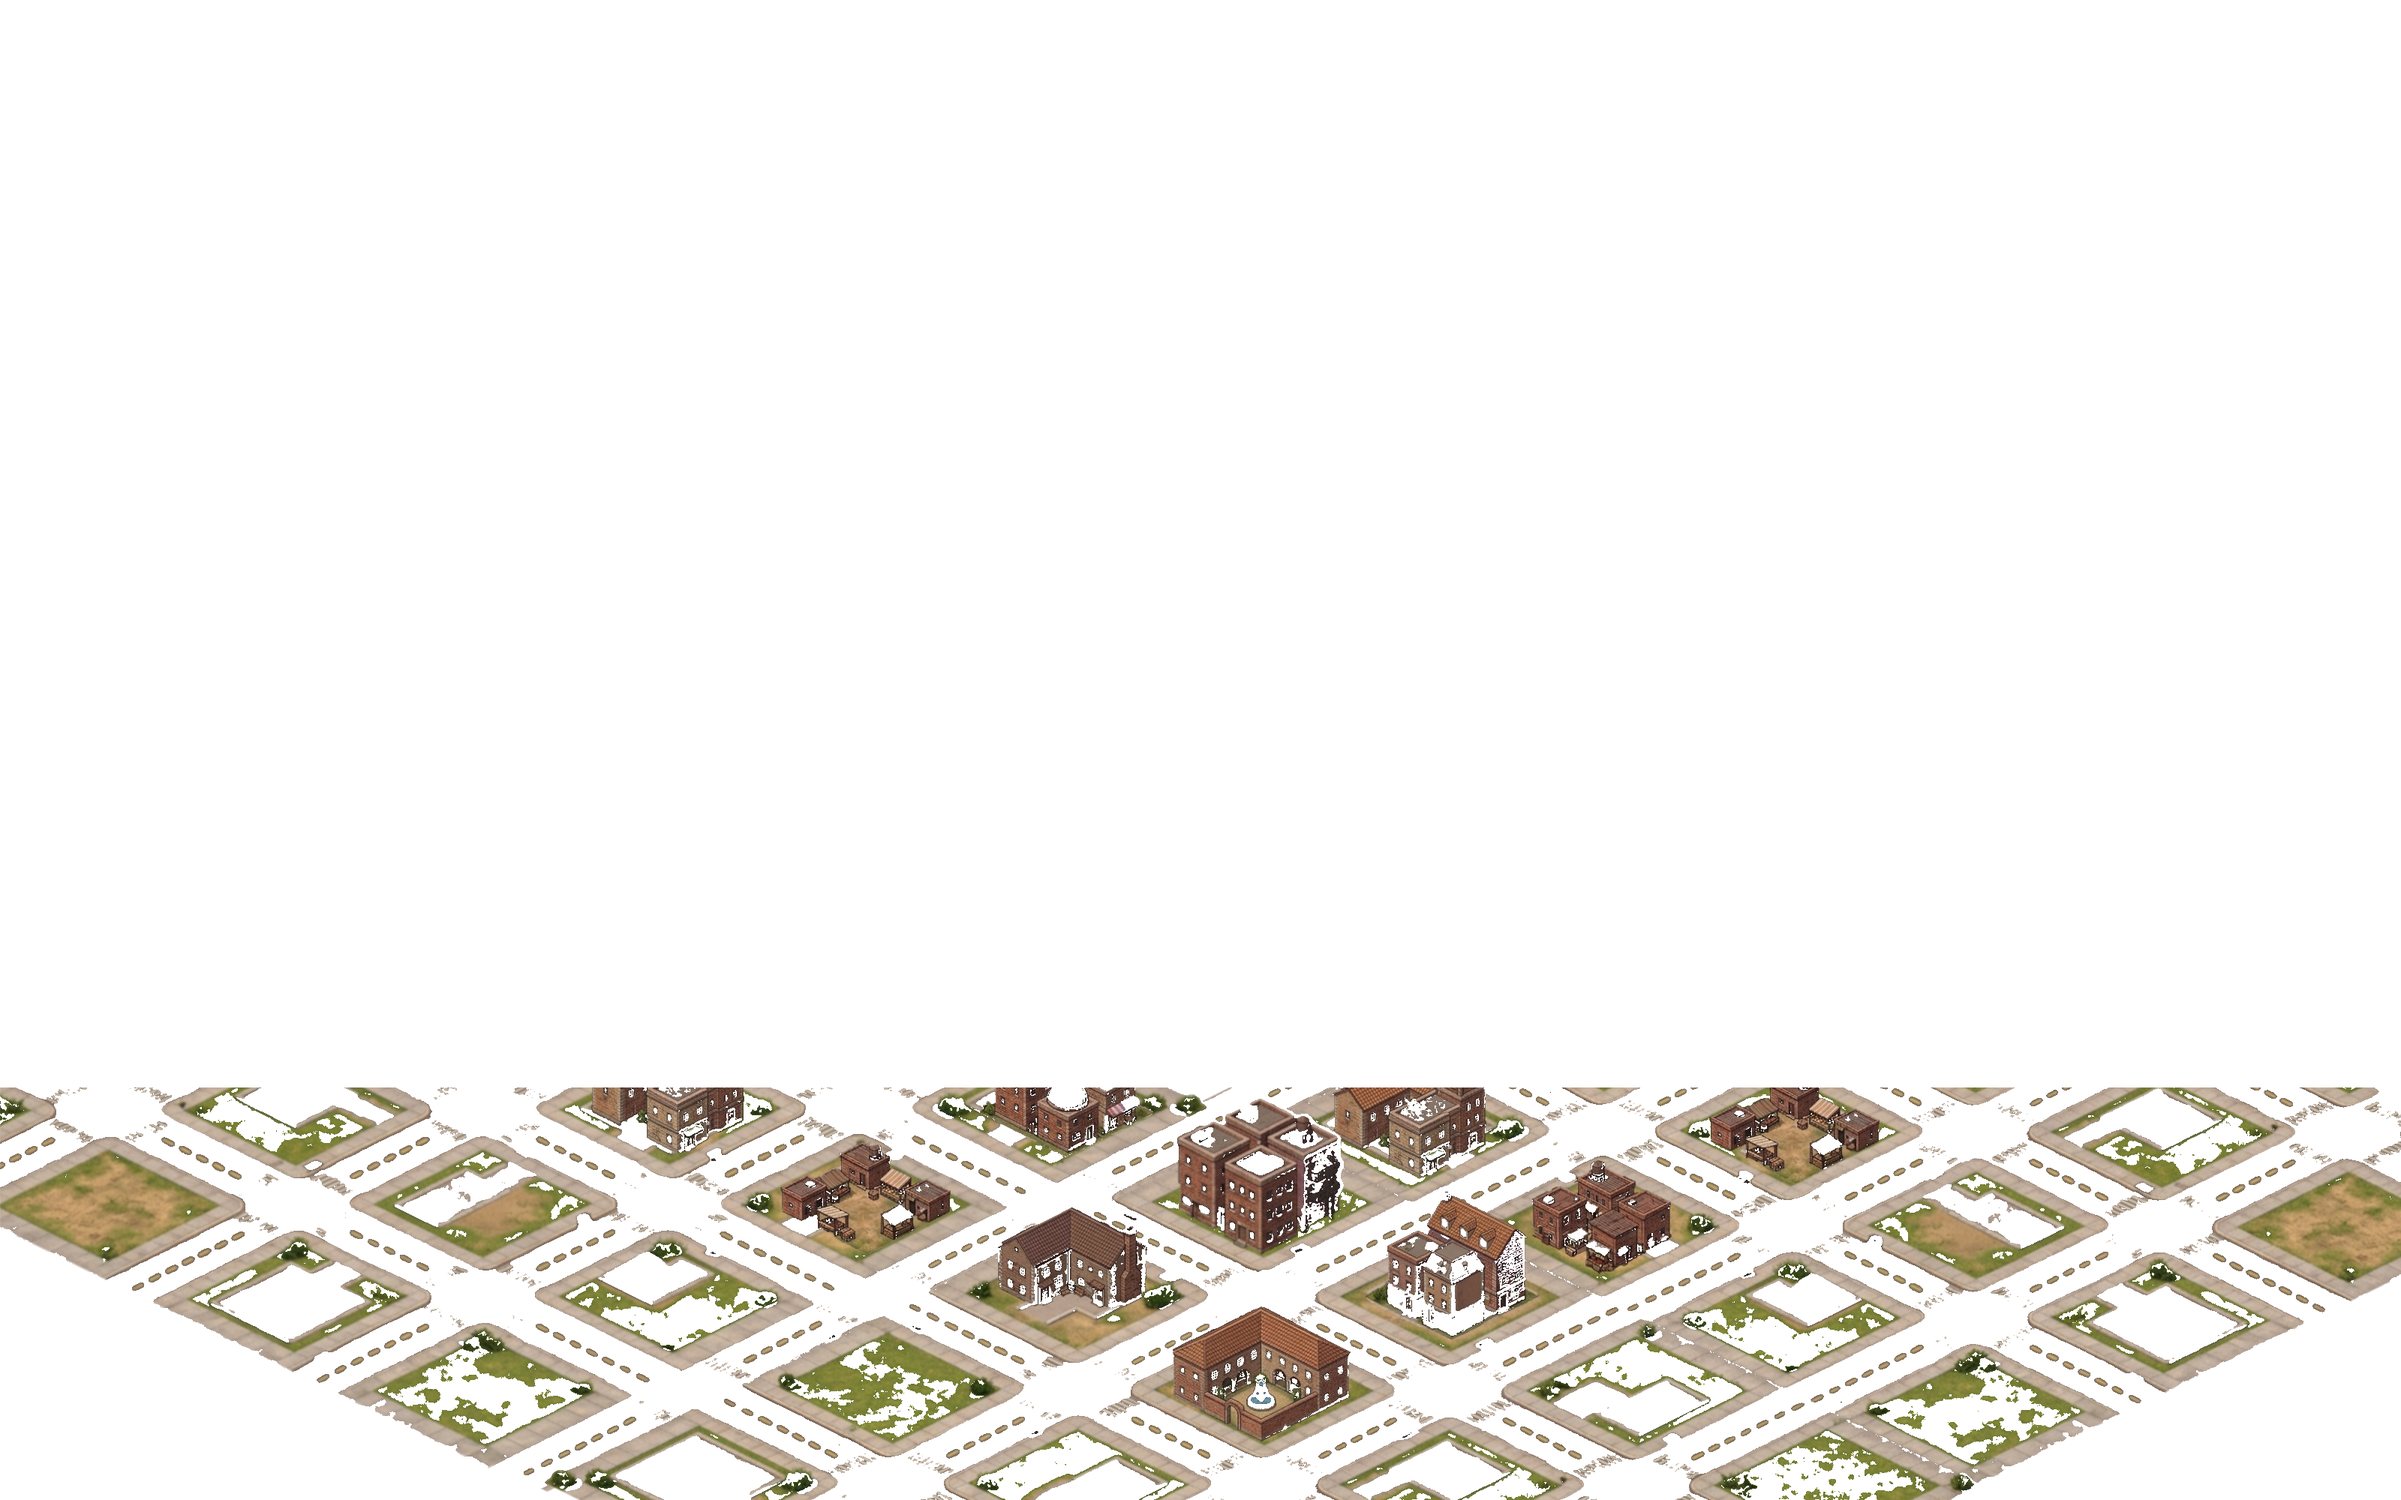
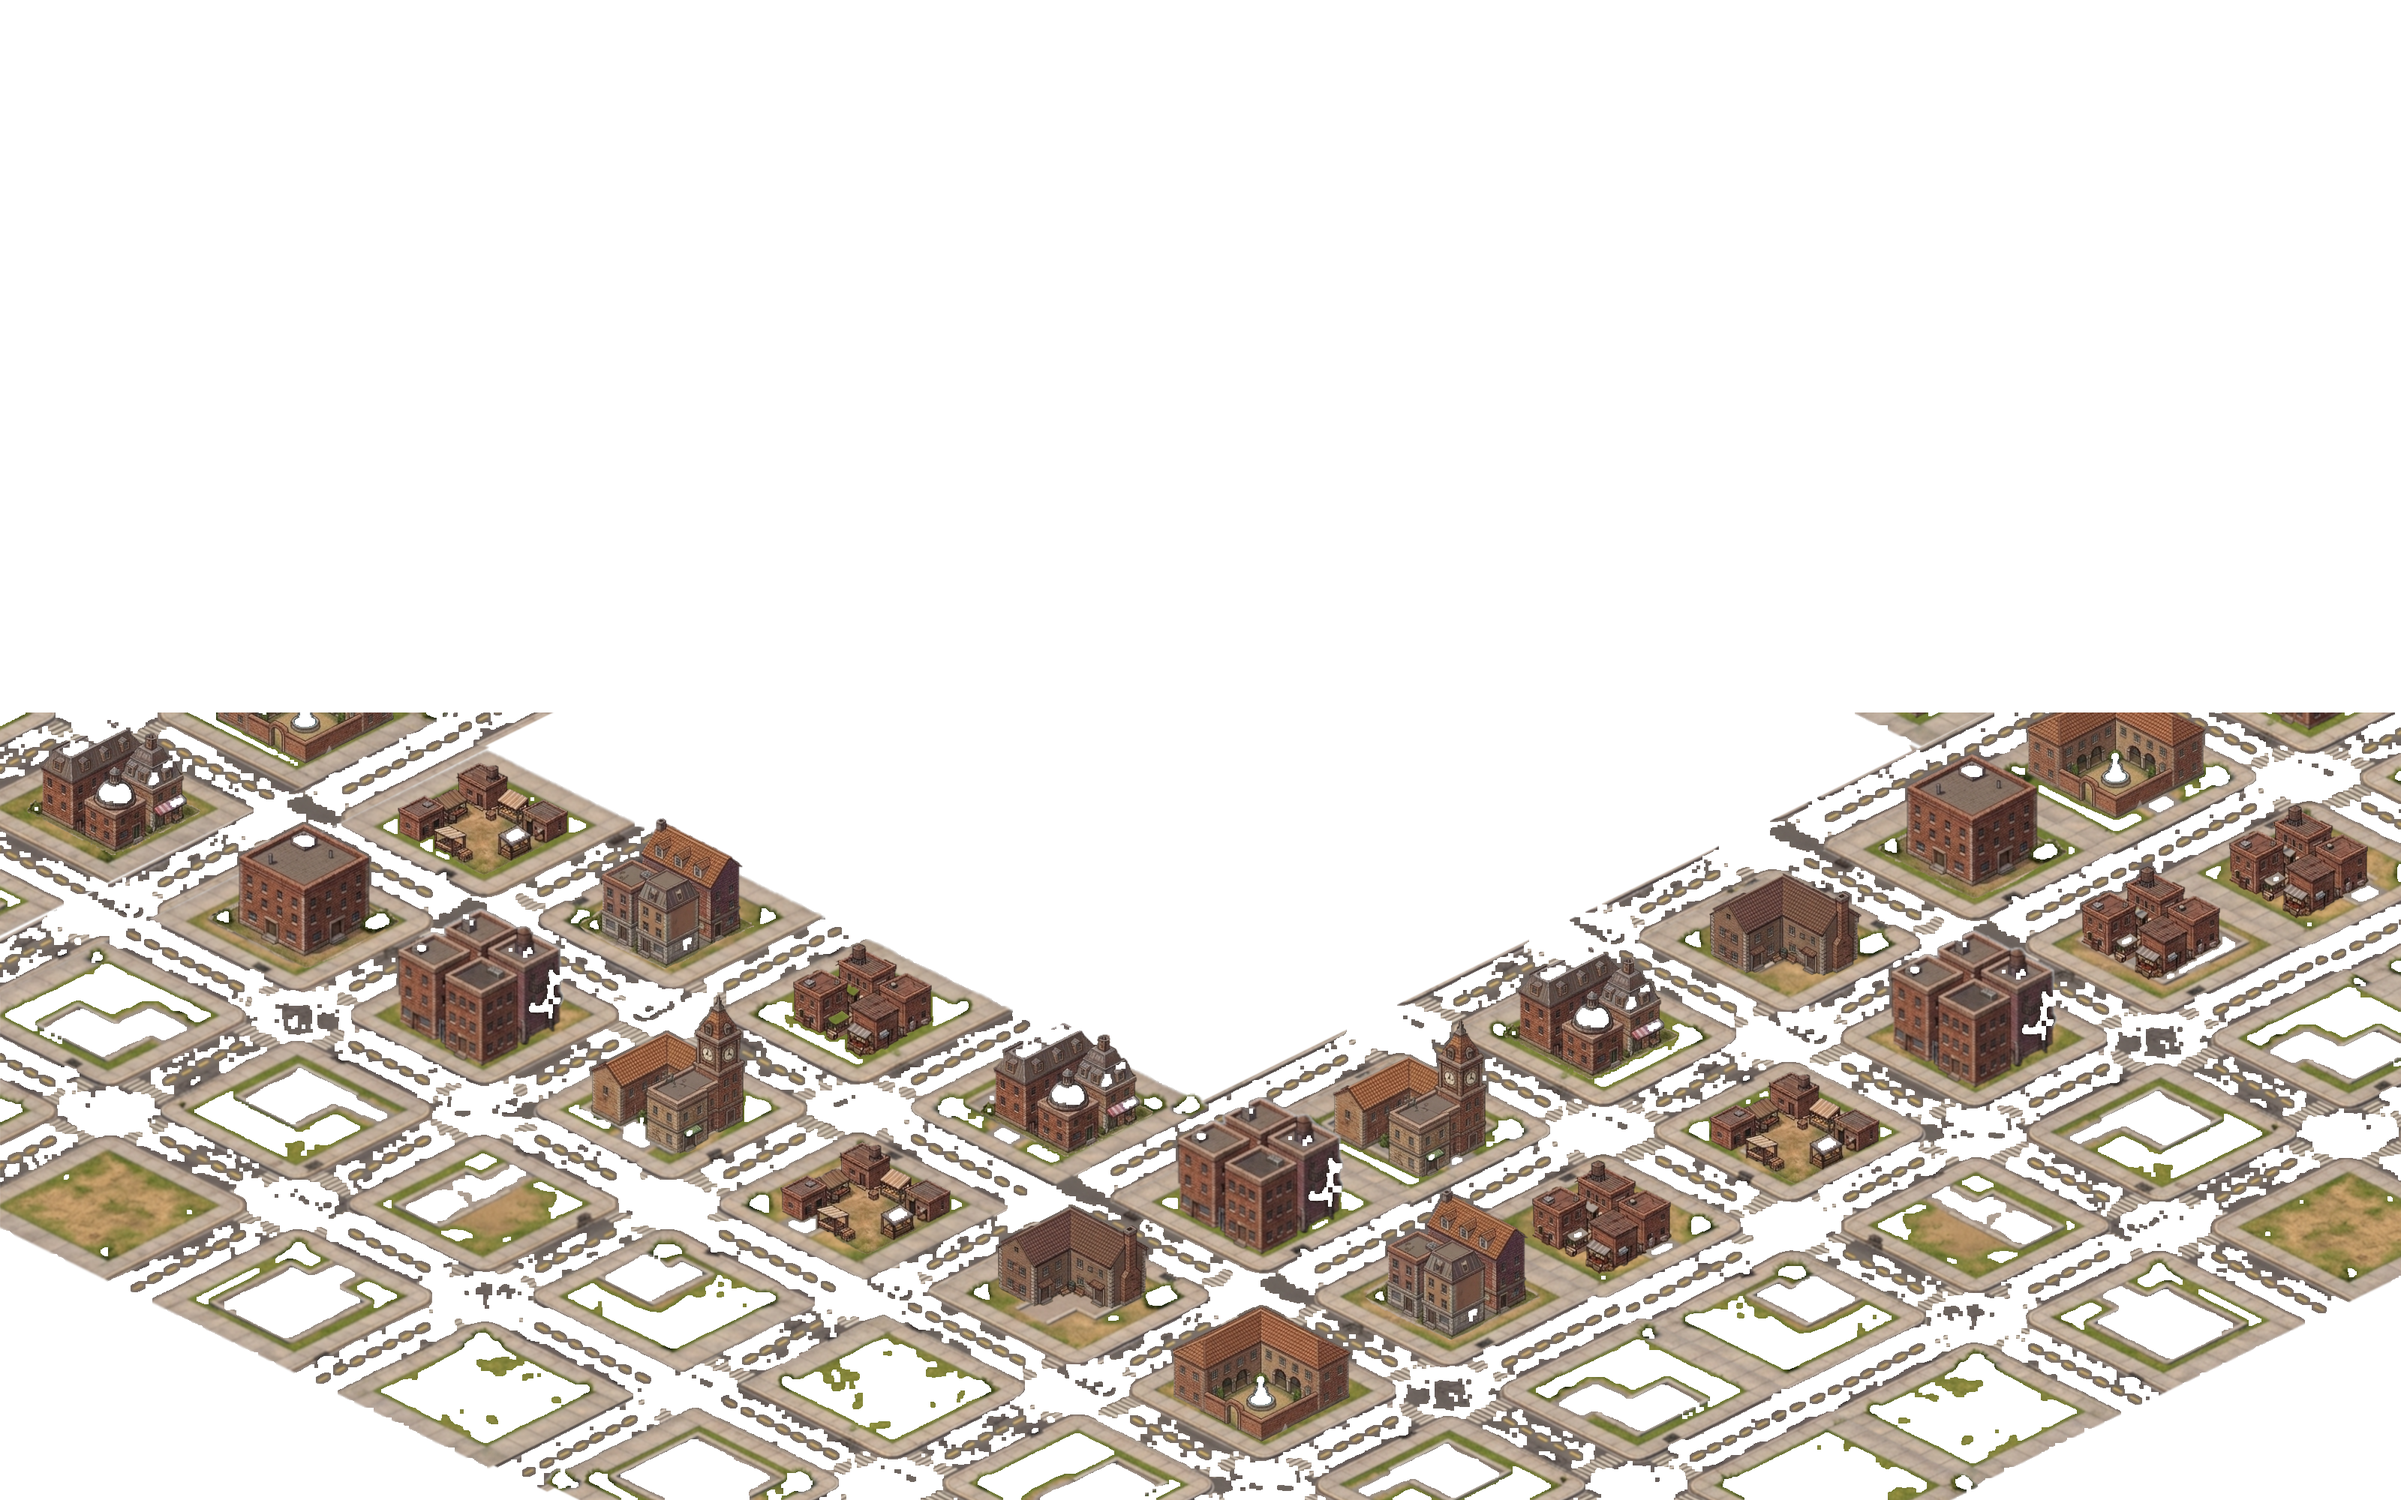
Front-Maske: vordere (untere) Bildhaelfte statt nur unterster Streifen
Die alte Maske deckte nur y>=1452 (Diamant-Unterkante) ab → linke Flanke
fehlte, deshalb lief der Spieler links ueber die Haeuser. Neue Maske deckt
die Haeuser-Silhouetten der vorderen Bildhaelfte (ab y=950) ab: unten UND
links/rechts. Hintere (obere) Haelfte bleibt frei → Spieler laeuft dort davor.

Claude-Session: https://claude.ai/code/session_013HJSBZ8F1qv1i9bfF7Wrnj

Changed region(s): [[0.0, 0.465, 1.0, 1.0]]

diff --git a/script.js b/script.js
@@ -6,7 +6,7 @@
 
 // Sichtbare Build-Marke: zeigt im Header "v7", sobald DIESE Datei geladen ist.
 // Bleibt im Header "v6" stehen, läuft noch eine alte (gecachte) script.js.
-const BUILD_MARKE = 'v121 – i18n HUD/Bubbles, Räuber-Fix, Sprachwechsel';
+const BUILD_MARKE = 'v122 – Front-Maske vordere Hälfte (links+unten)';
 // Nutzer-sichtbare App-Version (zur versionName im Play Store passend halten)
 const APP_VERSION = '1.0.0';
 
